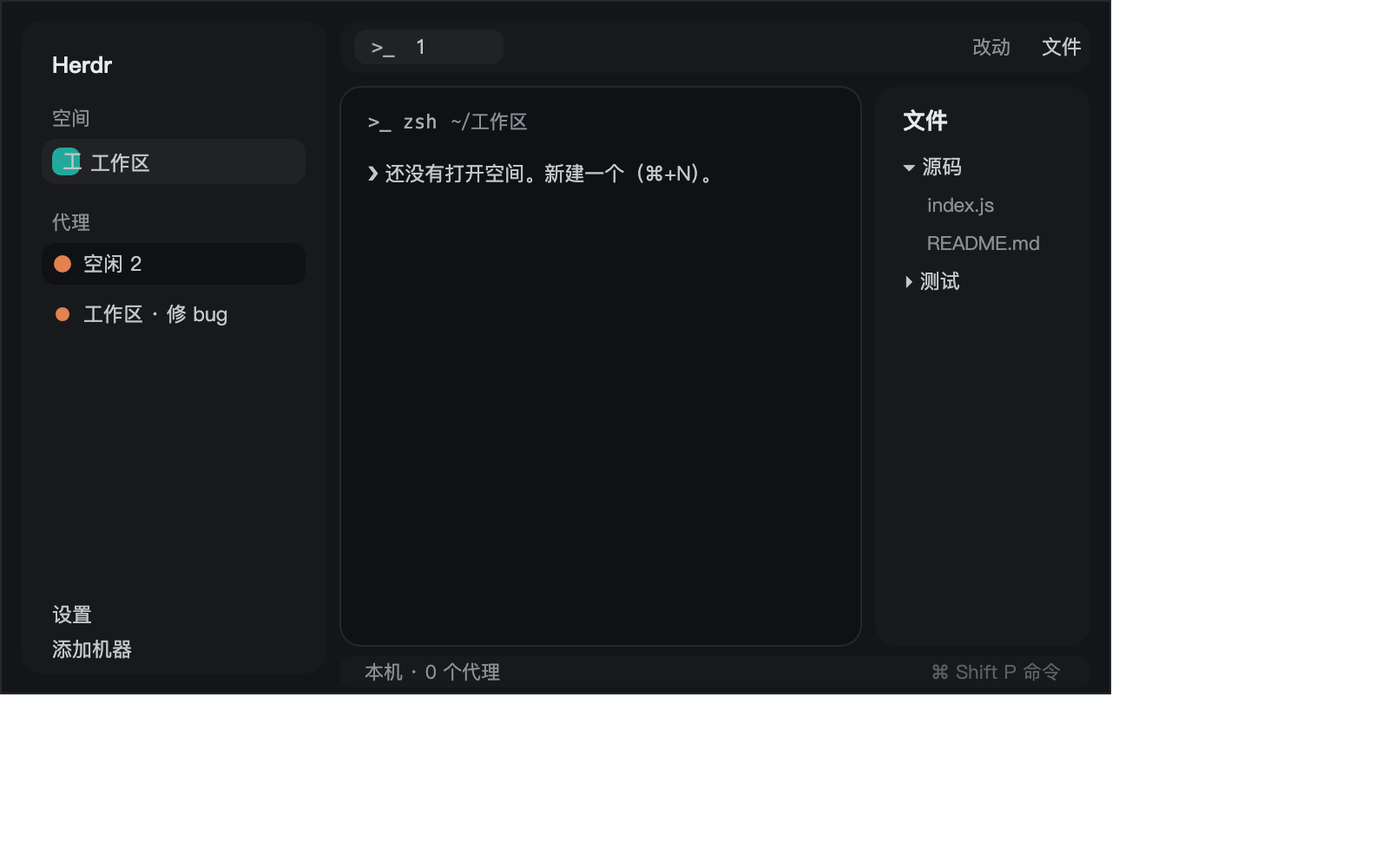
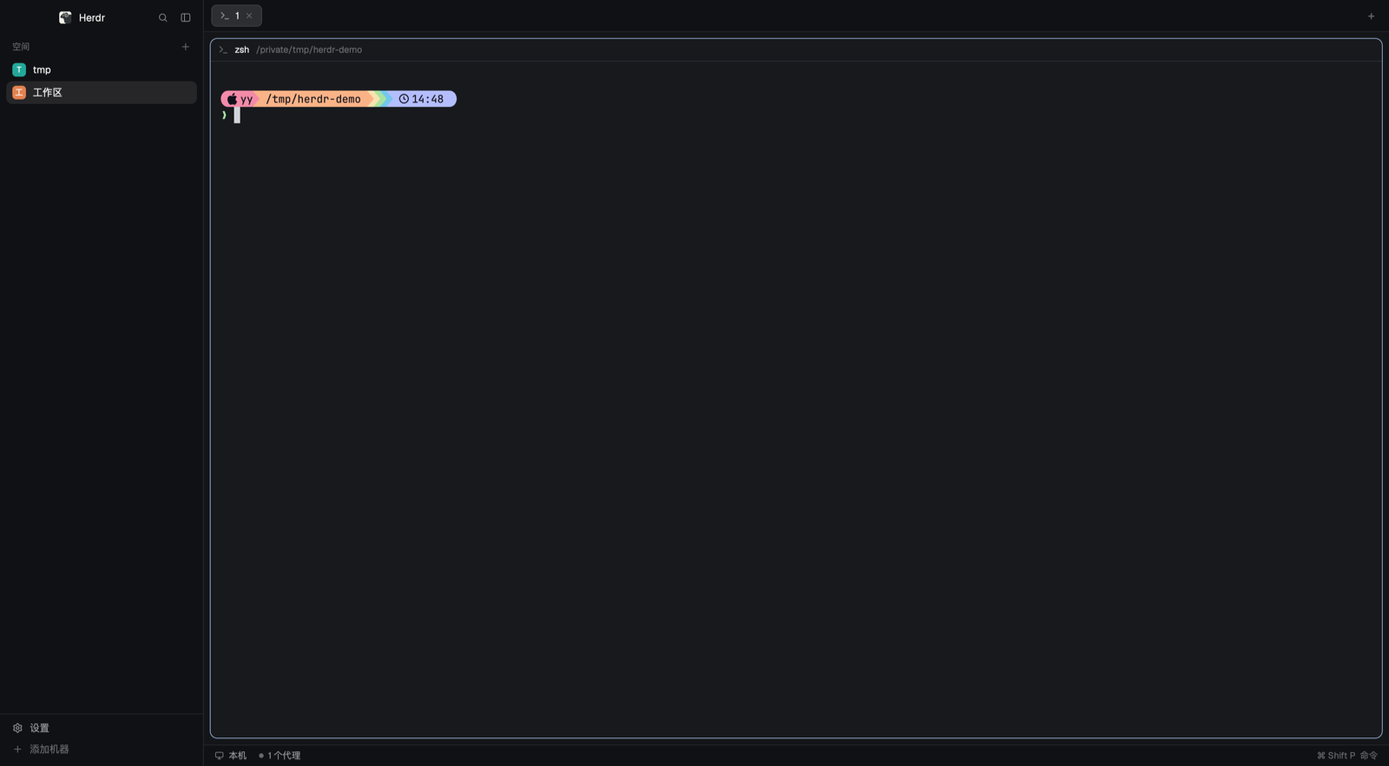
首页换成真机截图；修掉中文段落里被当成空格的问题
图片：
- preview.png 换成 herdr-app shot 抓的真机截图（0.1.10，1600×882）
- 删掉自绘的 preview-terminals-zh.png 与 assets/（那两张示意图会让人以为是界面）
- main-zh.json 补上 preview 字段，指向 layouts/main-zh.svg，
  这样「设置 › 外观」里的布局卡片有示意图（纯图形，同 Herdr 自带 win98.svg 的惯例）

文档：
- GitHub 把段落里的硬换行渲染成空格，中文就多出「界面模块里。 这套东西」这类空格；
  把三个 md 的纯文本段落接回一行（表格/列表/代码块未动）
- 安装步骤补上第 0 步「git clone」，之前直接讲 cp，读者不知道文件从哪来
- 脚注的 `\*` 换成「注：」

diff --git a/RECIPE.md b/RECIPE.md
@@ -1,9 +1,6 @@
 # Herdr 中文版
 
-把 Herdr 的界面换成简体中文：侧边栏、代理列表、标签栏、窗格表头、文件/改动面板、
-状态栏、右键菜单、＋菜单、跳转面板、添加机器、worktree、快捷键页、设置页、
-命令面板、反馈、欢迎页、更新内容，以及「没有打开空间」时的空状态。
-另附一个中文的终端版布局。不改 `Herdr.app` 本体，不动二进制，不重签名。
+把 Herdr 的界面换成简体中文：侧边栏、代理列表、标签栏、窗格表头、文件/改动面板、状态栏、右键菜单、＋菜单、跳转面板、添加机器、worktree、快捷键页、设置页、命令面板、反馈、欢迎页、更新内容，以及「没有打开空间」时的空状态。另附一个中文的终端版布局。不改 `Herdr.app` 本体，不动二进制，不重签名。
 
 ![Herdr 中文版](preview.png)
 
@@ -14,8 +11,7 @@
 **`layouts/main-zh.json`（Herdr 中文版）**，从左到右、从上到下：
 
 - 根节点 `root`：`row`，`titlebar: none`（不画系统标题栏），`traffic_lights: [12, 16]`，
-  `background: canvas`，`terminal_padding: [14, 12]`，`divider: {width:1, color:border}`，
-  `terminal_menu: menu-zh`。**不设 `theme`/`font`**，所以配色与字体来自用户的 `settings.json`。
+  `background: canvas`，`terminal_padding: [14, 12]`，`divider: {width:1, color:border}`，`terminal_menu: menu-zh`。**不设 `theme`/`font`**，所以配色与字体来自用户的 `settings.json`。
 - `sidebar`（`column`，268px，min 44，max 480，`background: chrome`，`resizable: false`）：
   - `brand`（46px 高，`window_drag: true`）→ `workspace-chrome-zh`：羊头图标 + `Herdr`、
     放大镜、侧边栏开关。
@@ -37,38 +33,19 @@
       `changes` → `changes-zh`。由标签栏的两个按钮开关。
   - `status`（28px 高）→ `workspace-status-zh`。
 
-**`layouts/terminals-zh.json`（终端版 中文）**：根节点自带调色板
-（`#131619` 背景、`#3b82f6` 强调色、`graphite` 主题、`font_size: 15`、`padding: [6,6]`、`gap: 8`），
-`traffic_lights: [16, 18]`。顶部 `tabs`（38px，`window_drag: true`）→ `terminals-bar-zh`
-（空间胶囊 + 标签 + 窗口按钮 + 命令/新建按钮）；`main` → `{tab:"active"}`，
-`pane.header` → `terminals-pane-zh`（深色系硬编码的窗格表头）。
+**`layouts/terminals-zh.json`（终端版 中文）**：根节点自带调色板（`#131619` 背景、`#3b82f6` 强调色、`graphite` 主题、`font_size: 15`、`padding: [6,6]`、`gap: 8`），`traffic_lights: [16, 18]`。顶部 `tabs`（38px，`window_drag: true`）→ `terminals-bar-zh` （空间胶囊 + 标签 + 窗口按钮 + 命令/新建按钮）；`main` → `{tab:"active"}`，`pane.header` → `terminals-pane-zh`（深色系硬编码的窗格表头）。
 
-字号都不是新加的：中文文字用各模块原本的 `text_size`（例如状态栏 11.8、菜单 12.8、
-代理行 13、文件行 13），CJK 字形由系统字体（macOS 上是苹方）补上。
+字号都不是新加的：中文文字用各模块原本的 `text_size`（例如状态栏 11.8、菜单 12.8、代理行 13、文件行 13），CJK 字形由系统字体（macOS 上是苹方）补上。
 
-**中文化到什么程度**：所有 Herdr 自带的用户可见英文都译了，包括命令名在快捷键页里
-也译成中文（`space.new` → 新建空间）。保留英文的只有专有名词：`Herdr`、`Herdr 98`、
-`herdr-core`、`hc`、字体名（`JetBrains Mono`、`Geist`）、主题名
-（`graphite` `ink` `moss` `atom one dark` `paper`）、以及快捷键名 `Esc`。
+**中文化到什么程度**：所有 Herdr 自带的用户可见英文都译了，包括命令名在快捷键页里也译成中文（`space.new` → 新建空间）。保留英文的只有专有名词：`Herdr`、`Herdr 98`、`herdr-core`、`hc`、字体名（`JetBrains Mono`、`Geist`）、主题名（`graphite` `ink` `moss` `atom one dark` `paper`）、以及快捷键名 `Esc`。
 
 ---
 
 ## 它怎么表现
 
-**空间列表（`spaces-zh`）**：标题行 31px 高，左内边距 16px、右 10px，写「空间」，
-右侧一个 ＋ 打开新建空间。每个空间一行 30px 高（worktree 子行 28px）、圆角 8、
-左右内边距 8；行首是 18px 的圆角色块（5px 圆角、按下标取的调色板色 `ansi6/ansi3/ansi4/ansi5/ansi2/ansi1`），
-里面是空间名首字。名后只在"不寻常"时才跟 `仓库 · 分支 ↑2 ↓1`（主分支、与空间同名的分支不显示）。
-单击选择（`space.select`），按下再拖到别的行则排序（`space.move`），右键在指针处弹 `menu-zh`
-（200×260，`props: {tab:"space", target:{id}}`）。侧边栏宽度小于 **160px** 时自动变窄栏：
-只显示序号 + 一个状态点（`●` 需要你 / `·` 其他）。已知机器不止一台时，列表按机器分组，
-每组 26px 高的标题（小显示器/服务器图标 + 机器名 + ＋ + 折叠箭头「载入中…」）。
+**空间列表（`spaces-zh`）**：标题行 31px 高，左内边距 16px、右 10px，写「空间」，右侧一个 ＋ 打开新建空间。每个空间一行 30px 高（worktree 子行 28px）、圆角 8、左右内边距 8；行首是 18px 的圆角色块（5px 圆角、按下标取的调色板色 `ansi6/ansi3/ansi4/ansi5/ansi2/ansi1`），里面是空间名首字。名后只在"不寻常"时才跟 `仓库 · 分支 ↑2 ↓1`（主分支、与空间同名的分支不显示）。单击选择（`space.select`），按下再拖到别的行则排序（`space.move`），右键在指针处弹 `menu-zh` （200×260，`props: {tab:"space", target:{id}}`）。侧边栏宽度小于 **160px** 时自动变窄栏：只显示序号 + 一个状态点（`●` 需要你 / `·` 其他）。已知机器不止一台时，列表按机器分组，每组 26px 高的标题（小显示器/服务器图标 + 机器名 + ＋ + 折叠箭头「载入中…」）。
 
-**代理列表（`agents-zh`）**：标题「代理」41px 高，右上角一个排序按钮，点开 `agents-zh`
-自身的弹出菜单（200×140，`props: {sortMenu:true}`），两种排法：**按优先级** 或 **按空间分组**。
-按优先级时分组标题是「需要你 / 已完成 / 进行中 / 空闲」，按空间时用空间名，标题 30px 高、
-11px 灰字、可点击折叠（折叠后显示数量与最紧急状态）。每个代理一行 30px 高、圆角 8、
-圆点距 9；聚焦的那行用 `selected` 底色。四种状态：
+**代理列表（`agents-zh`）**：标题「代理」41px 高，右上角一个排序按钮，点开 `agents-zh` 自身的弹出菜单（200×140，`props: {sortMenu:true}`），两种排法：**按优先级** 或 **按空间分组**。按优先级时分组标题是「需要你 / 已完成 / 进行中 / 空闲」，按空间时用空间名，标题 30px 高、11px 灰字、可点击折叠（折叠后显示数量与最紧急状态）。每个代理一行 30px 高、圆角 8、圆点距 9；聚焦的那行用 `selected` 底色。四种状态：
 
 | 状态 | 行尾/标题里的样子 |
 |---|---|
@@ -77,46 +54,19 @@
 | `done` 已完成 | 7px 实心圆点，`done` 色 |
 | `idle` 空闲 | 7px 空心圆环，1.5px 边框，`idle` 色（缺省 `dim`） |
 
-悬停在行上，右侧出现图钉按钮（`tooltip` 是「置顶」/「取消置顶」），置顶的代理排到最前并
-在优先级视图里额外用 `· 细节` 标出空间名。子代理以树形缩进（`└`/`├` 用 1.5px 边框画），
-点一下预览（`terminal.peek`）。点击代理行聚焦它的窗格（`pane.focus`）。空闲时间显示
-`<1m` / `3m` / `2h` / `5d`。列表为空时显示「还没有代理状态。代理上报状态后才会出现在这里。
-旧版本和在 tmux 里运行的代理可能不会显示。」
+悬停在行上，右侧出现图钉按钮（`tooltip` 是「置顶」/「取消置顶」），置顶的代理排到最前并在优先级视图里额外用 `· 细节` 标出空间名。子代理以树形缩进（`└`/`├` 用 1.5px 边框画），点一下预览（`terminal.peek`）。点击代理行聚焦它的窗格（`pane.focus`）。空闲时间显示`<1m` / `3m` / `2h` / `5d`。列表为空时显示「还没有代理状态。代理上报状态后才会出现在这里。旧版本和在 tmux 里运行的代理可能不会显示。」
 
-**标签栏（`tabs-zh`）**：每个标签 29px 高、圆角 7、内边距左右 10，激活的用 `raised` 底 +
-`border` 边，其余透明。标签名最长 170px 后省略；程序图标 14px（单色字形或图片）。
-双击改名 → 打开中文重命名框；拖动排序（`tab.move`）；右键弹 `menu-zh`（`props: {tab:"tab"}`）；
-激活标签右端有 ✕（`tab.close`）。＋按钮打开 `new-menu-zh`（250×512）。右侧
-「文件」「改动」两个按钮开关 `panel` 列，并记住每个空间各自的选择。
+**标签栏（`tabs-zh`）**：每个标签 29px 高、圆角 7、内边距左右 10，激活的用 `raised` 底 + `border` 边，其余透明。标签名最长 170px 后省略；程序图标 14px（单色字形或图片）。双击改名 → 打开中文重命名框；拖动排序（`tab.move`）；右键弹 `menu-zh`（`props: {tab:"tab"}`）；激活标签右端有 ✕（`tab.close`）。＋按钮打开 `new-menu-zh`（250×512）。右侧「文件」「改动」两个按钮开关 `panel` 列，并记住每个空间各自的选择。
 
-**窗格表头（`pane-zh`）**：30px 高，左右内边距 10、圆点距 8。程序图标 14px、名称最多 260px、
-然后是 `~` 缩写后的目录；行尾按状态显示转圈 / 「需要你」胶囊 / 完成圆点。
-鼠标悬停在表头上时浮现四个 14px 图标按钮：向右分屏、向下分屏、放大/还原、关闭。
+**窗格表头（`pane-zh`）**：30px 高，左右内边距 10、圆点距 8。程序图标 14px、名称最多 260px、然后是 `~` 缩写后的目录；行尾按状态显示转圈 / 「需要你」胶囊 / 完成圆点。鼠标悬停在表头上时浮现四个 14px 图标按钮：向右分屏、向下分屏、放大/还原、关闭。
 
-**状态栏（`workspace-status-zh`）**：28px 高、左右内边距 14、圆点距 16、11.8px 灰字。
-从左到右：`本机`（或远端机器名，带服务器图标）· 当前分支 · `● N 个代理`
-（有阻塞时追加 `· N 个需要你`，用 `blocked` 色）· 空白 · 右侧 `⌘ Shift P  命令`，
-点击打开 `palette-zh`。
+**状态栏（`workspace-status-zh`）**：28px 高、左右内边距 14、圆点距 16、11.8px 灰字。从左到右：`本机`（或远端机器名，带服务器图标）· 当前分支 · `● N 个代理` （有阻塞时追加 `· N 个需要你`，用 `blocked` 色）· 空白 · 右侧 `⌘ Shift P  命令`，点击打开 `palette-zh`。
 
-**文件面板（`files-zh`）**：标题栏 42px 高，「文件」标题 + 右侧当前目录名；打开文件后
-标题变成文件名 + 一个 ← 返回。目录树每行 28px、每层缩进 18px、圆角 7，文件夹可展开
-（懒加载），git 状态在行尾标 `A`/`M`/`D`/`U`（绿/红/橙）。预览用只读编辑器，
-语法高亮取主题色（`ansi5` 关键字、`ansi2` 字符串、`ansi4` 函数、`ansi3` 类型、`ansi1` 数字、`ansi6` 常量）。
-上限：每层 500 条、总计 5000 条（超出时提示「文件列表上限：每个文件夹 500 项，共 5,000 项」）；
-文件超过 400000 字截断并注明「（文件已截断）」；目录变动 10 秒轮询 + 文件夹监视。
+**文件面板（`files-zh`）**：标题栏 42px 高，「文件」标题 + 右侧当前目录名；打开文件后标题变成文件名 + 一个 ← 返回。目录树每行 28px、每层缩进 18px、圆角 7，文件夹可展开（懒加载），git 状态在行尾标 `A`/`M`/`D`/`U`（绿/红/橙）。预览用只读编辑器，语法高亮取主题色（`ansi5` 关键字、`ansi2` 字符串、`ansi4` 函数、`ansi3` 类型、`ansi1` 数字、`ansi6` 常量）。上限：每层 500 条、总计 5000 条（超出时提示「文件列表上限：每个文件夹 500 项，共 5,000 项」）；文件超过 400000 字截断并注明「（文件已截断）」；目录变动 10 秒轮询 + 文件夹监视。
 
-**改动面板（`changes-zh`）**：标题栏 42px，「改动」+ `N 个文件` + `+N −N`。文件列表最多 200px 高、
-每行 28px（状态字母 + 路径 + 增删数），点开后下方是统一 diff：虚拟列表、每行 20px，
-新增行用 `ansi2` 18% 底、删除行用 `ansi1` 18% 底，行号 30px 宽右对齐。底部是提交框
-（32px，输入 12px）+「提交」按钮（有内容时才点亮）。上限 1000 个文件、每文件 1500 行、
-每行 4000 字符。
+**改动面板（`changes-zh`）**：标题栏 42px，「改动」+ `N 个文件` + `+N −N`。文件列表最多 200px 高、每行 28px（状态字母 + 路径 + 增删数），点开后下方是统一 diff：虚拟列表、每行 20px，新增行用 `ansi2` 18% 底、删除行用 `ansi1` 18% 底，行号 30px 宽右对齐。底部是提交框（32px，输入 12px）+「提交」按钮（有内容时才点亮）。上限 1000 个文件、每文件 1500 行、每行 4000 字符。
 
-**空状态（`empty-zh`）**：Herdr 内建的那句 `No space open. Make one (cmd-n).` 是硬编码英文，
-换不掉，所以用一个**整块的 stack 子节点盖住它**：`main-stack` 的 `empty` 子节点渲染一个
-圆角 12、`chrome` 底的卡片，写「还没有打开空间。新建一个（⌘+N）。」，下面一个
-「新建空间」按钮（`space.new`）。`empty-zh` 每 700ms 检查一次：有空间就把 stack 切回
-`terminals`，没有就切到 `empty`（`layout.select`）。所以运行中打开/关闭最后一个空间，
-画面会自动切换，不需要手动切布局。
+**空状态（`empty-zh`）**：Herdr 内建的那句 `No space open. Make one (cmd-n).` 是硬编码英文，换不掉，所以用一个**整块的 stack 子节点盖住它**：`main-stack` 的 `empty` 子节点渲染一个圆角 12、`chrome` 底的卡片，写「还没有打开空间。新建一个（⌘+N）。」，下面一个「新建空间」按钮（`space.new`）。`empty-zh` 每 700ms 检查一次：有空间就把 stack 切回`terminals`，没有就切到 `empty`（`layout.select`）。所以运行中打开/关闭最后一个空间，画面会自动切换，不需要手动切布局。
 
 **浮层（都开在指针处或顶部）**：
 
@@ -136,16 +86,13 @@
 | `welcome-zh` | 760×640 | 「欢迎使用 Herdr」四页引导，中文 |
 | `whatsnew-zh` | 640×620 | 「Herdr 更新内容」 |
 
-**键位入口**（`keys.json`）：`⌘,` 中文设置 · `⌘⇧P` 中文命令面板 · `⌘/` 与 `⌘⇧/` 中文快捷键 ·
-`⌘P` 中文跳转 · `F2` 重命名标签页 · `⇧F2` 重命名空间。
+**键位入口**（`keys.json`）：`⌘,` 中文设置 · `⌘⇧P` 中文命令面板 · `⌘/` 与 `⌘⇧/` 中文快捷键 · `⌘P` 中文跳转 · `F2` 重命名标签页 · `⇧F2` 重命名空间。
 
 ---
 
 ## 由什么搭成
 
-**布局**：`layouts/main-zh.json`（克隆自 Herdr 自带 `layouts/main.json`，根节点
-`cloned_from: {name:"main"}`）与 `layouts/terminals-zh.json`（克隆自 `terminals.json`）。
-节点树与尺寸见上一节；两个布局都只是**换掉 `content.mod` 指向的模块名**，结构与自带版一致。
+**布局**：`layouts/main-zh.json`（克隆自 Herdr 自带 `layouts/main.json`，根节点`cloned_from: {name:"main"}`）与 `layouts/terminals-zh.json`（克隆自 `terminals.json`）。节点树与尺寸见上一节；两个布局都只是**换掉 `content.mod` 指向的模块名**，结构与自带版一致。
 
 **每个模块用什么搭的**：
 
@@ -175,54 +122,36 @@
 | `whatsnew-zh` | `{notes, overlay}` | `updates, presentUpdateNotes, theme, props, closeOverlay` | — |
 | `terminals-bar-zh` / `terminals-pane-zh` | 后者用 `{pane}` | `spaces, panes, home, openOverlay, run, window, theme` | `tab.select/new`、`pane.focus/split/zoom/close`、`mod.open` |
 
-**美术**：`mods/workspace-chrome-zh/` 里有 33 个 SVG（`spinner.svg`、`monitor.svg`、
-`server.svg`、`branch.svg`、`plus.svg`、`search.svg`、`sidebar.svg`、`settings.svg`、
-`chevron-*.svg`、`x.svg` 等），`files-zh/` 4 个，`pane-zh/` 5 个，`tabs-zh/` 4 个
-（Windows 窗口按钮），`palette-zh/command.svg`，`settings-zh/` 6 个，`welcome-zh/` 7 个。
-都是 Herdr 自带图标（Lucide / Feather 衍生，见 NOTICE），原样复制过来。
+**美术**：`mods/workspace-chrome-zh/` 里有 33 个 SVG（`spinner.svg`、`monitor.svg`、`server.svg`、`branch.svg`、`plus.svg`、`search.svg`、`sidebar.svg`、`settings.svg`、`chevron-*.svg`、`x.svg` 等），`files-zh/` 4 个，`pane-zh/` 5 个，`tabs-zh/` 4 个（Windows 窗口按钮），`palette-zh/command.svg`，`settings-zh/` 6 个，`welcome-zh/` 7 个。都是 Herdr 自带图标（Lucide / Feather 衍生，见 NOTICE），原样复制过来。
 
-**`tools/`（可选）**：`apply.sh` 把 `frame/settings/main.js`、`mods/confirm/main.js`、
-`mods/prompt/main.js` 换成中文并锁定；`verify.sh` 体检；`refresh.sh` + `zhmerge.py`
-在 Herdr 升级后把中文搬到新版上游；`leftover.py` 扫残留英文；
-`frame-settings-en.js` / `mods-confirm-en.js` / `mods-prompt-en.js` 是 Herdr 原文件的副本。
+**`tools/`（可选）**：`apply.sh` 把 `frame/settings/main.js`、`mods/confirm/main.js`、`mods/prompt/main.js` 换成中文并锁定；`verify.sh` 体检；`refresh.sh` + `zhmerge.py` 在 Herdr 升级后把中文搬到新版上游；`leftover.py` 扫残留英文；`frame-settings-en.js` / `mods-confirm-en.js` / `mods-prompt-en.js` 是 Herdr 原文件的副本。
 
 ---
 
 ## 当心
 
 - **Herdr 每次启动会重写它自己的文件。** `frame/`、`mods/spaces`、`mods/agents`、`mods/tabs`、
-  `mods/menu`、`mods/prompt` … 全都会被二进制内嵌的源码覆盖，编辑它们会留下 `*-edited` 副本
-  然后被还原。所以中文**必须**放在自建副本（`*-zh`）里。唯一的例外是设置窗口、确认框、
-  重命名框：那三个只能"锁定替换"（写入中文后 `chmod 444` + `chflags uchg`）。
-  只加 `chflags uchg` 不够，**两个都要**。
+  `mods/menu`、`mods/prompt` … 全都会被二进制内嵌的源码覆盖，编辑它们会留下 `*-edited` 副本然后被还原。所以中文**必须**放在自建副本（`*-zh`）里。唯一的例外是设置窗口、确认框、重命名框：那三个只能"锁定替换"（写入中文后 `chmod 444` + `chflags uchg`）。只加 `chflags uchg` 不够，**两个都要**。
 - **别整份覆盖 `keys.json`。** 用户自己的键位在里面，只合并那六项。
 - **`mod.clone` 只处理"自己的"引用。** 它会改写本模块的资源路径（`mods/pane/` →
-  `mods/pane-zh/`）和"自开浮层"的名字，但**跨模块引用要手工改**：例如 `spaces-zh` 里
-  `openOverlay({mod:"menu"})` 要改成 `menu-zh`，`tabs-zh` 要指向 `menu-zh`/`new-menu-zh`。
-  漏改的结果是弹出一个英文菜单，而不是报错 —— 很容易漏。
+  `mods/pane-zh/`）和"自开浮层"的名字，但**跨模块引用要手工改**：例如 `spaces-zh` 里`openOverlay({mod:"menu"})` 要改成 `menu-zh`，`tabs-zh` 要指向 `menu-zh`/`new-menu-zh`。漏改的结果是弹出一个英文菜单，而不是报错 —— 很容易漏。
 - **`peek` 和 `toast` 换不了。** Herdr 按固定名字 `peek` / `toast` 打开这两个，
   用户侧没有配置项（`terminal_menu` 只影响终端右键菜单）。这两处仍是英文。
 - **空状态靠"盖"不靠"删"。** Herdr 内建的空状态文案在二进制里，只能用一个覆盖整块的
-  stack 子节点盖住；这也是为什么 `main-zh` 的 `main` 位置是个 `stack` 而不是直接
-  `{tab:"active"}` 的 block。若把 `main-stack` 改名或改成别的结构，`empty-zh` 就找不到它、
-  什么也不做（不报错），此时会露出内建的英文。
+  stack 子节点盖住；这也是为什么 `main-zh` 的 `main` 位置是个 `stack` 而不是直接`{tab:"active"}` 的 block。若把 `main-stack` 改名或改成别的结构，`empty-zh` 就找不到它、什么也不做（不报错），此时会露出内建的英文。
 - **`empty-zh` 用 700ms 定时器切换 stack 子节点。** 这是本套里唯一"轮询"的地方
   （判断 `spaces().length`）。改慢一点（如 2000ms）画面切换会有延迟，改快没必要。
 - **侧边栏窄于 160px 会变成窄栏**（`spaces-zh`/`agents-zh` 按宽度判断，不是标志位），
-  这是 Herdr 自带行为，中文版保留了：窄栏下 `agents-zh` 只显示序号 + 一个状态符号，
-  文案基本看不见。
+  这是 Herdr 自带行为，中文版保留了：窄栏下 `agents-zh` 只显示序号 + 一个状态符号，文案基本看不见。
 - **状态值大小写**：`agents()`/`machines()` 给的状态词可能是 `connected` 也可能是
   `Connected`，做词表时要大小写不敏感（`settings-zh` 里就是这么做的）。
 - **`settings-zh` 是"独立副本"**，它跟 `frame/settings` 是两份代码。想改设置页文案时
   两处都要改（`mods/settings-zh/main.js` 和 `tools/frame-settings-zh.js`）。
 - **字体**：中文靠系统的 CJK 字体补字形（macOS 是苹方）。如果用户把 `ui_font`
   设成一个没有 CJK 的字体，Herdr 仍会回退到系统字体，一般不会出方块。
-- **预览 SVG 是纯图形**（`layouts/*.svg`），因为 Herdr 自带的 `win98.svg` 也是纯图形、
-  渲染器不保证支持 `<text>`。要看带中文标签的图，看 `preview.png`（由
-  `assets/*.svg` 经 Chrome 无头渲染生成）。
+- **两套图别混**：`preview.png`（仓库首页那张）是 `herdr-app shot` 抓的**真机截图**；`layouts/*.svg` 是给「设置 › 外观」用的**布局示意图**，刻意只画图形不写字 —— 因为 Herdr 自带的 `win98.svg` 也是纯图形，它的 SVG 渲染器不保证支持 `<text>`。
 - **还没生效的控件**：`welcome-zh` 的「外观」分段控件会写 `settings.json`；
-  非 macOS 上 `settings-zh` 的「完全磁盘访问权限」按钮无意义（那是 macOS 特有）。
-  `palette-zh` 表里个别命令在旧版本上不存在，会自动被 `commands()` 过滤掉，不会报错。
+  非 macOS 上 `settings-zh` 的「完全磁盘访问权限」按钮无意义（那是 macOS 特有）。`palette-zh` 表里个别命令在旧版本上不存在，会自动被 `commands()` 过滤掉，不会报错。
 
 ---
 
@@ -266,7 +195,6 @@ herdr-app do mod.open '{"name":"machine-add-zh"}'    # 添加机器
 cd "$H" && ./zh-patch/verify.sh
 ```
 
-界面本身也要看到：侧边栏四个中文标题、标签栏「文件」「改动」、
-右键菜单全中文、`F2` 弹中文重命名框、`⌘,` 弹中文设置页并五个分节都是中文。
+界面本身也要看到：侧边栏四个中文标题、标签栏「文件」「改动」、右键菜单全中文、`F2` 弹中文重命名框、`⌘,` 弹中文设置页并五个分节都是中文。
 </DOC
 wc -l RECIPE.md; head -12 RECIPE.md

diff --git a/UPGRADE.md b/UPGRADE.md
@@ -1,7 +1,6 @@
 # Herdr 中文化：升级流程说明
 
-Herdr 升级后中文可能局部回退。这份文档说明**为什么会回退**、**按什么顺序修**，
-以及每一步用什么工具、怎么验证。
+Herdr 升级后中文可能局部回退。这份文档说明**为什么会回退**、**按什么顺序修**，以及每一步用什么工具、怎么验证。
 
 ---
 
@@ -31,8 +30,7 @@ Herdr 没有语言设置，中文是三层东西拼出来的：
 - **A 类：锁定文件停留在旧版** —— 设置窗口少了新版新增的选项。
 - **B 类：中文副本停留在旧版** —— 侧边栏/标签栏/面板少了新版功能，或上游改了文案而副本还是旧的。
 
-判断方法：副本的 `mod.json` 里记着克隆时的版本（`cloned_from.version`），
-和 `herdr-app --version` 一比就知道落了多少。
+判断方法：副本的 `mod.json` 里记着克隆时的版本（`cloned_from.version`），和 `herdr-app --version` 一比就知道落了多少。
 
 ---
 
@@ -93,9 +91,7 @@ git add -A && git commit -m "跟到 Herdr <版本>"
 
 `zhmerge.py` 的设计原则，值得记住：
 
-**已知局限**：`zhstrings.py` / `zhmerge.py` 用正则找字符串字面量，**嵌套模板串**
-（例如 `` `打开 worktree${r ? ` · ${r.name}` : ""}` ``）会被切断，于是这类文件
-可能被报成「需人工」。判断法：直接 `git diff` 看差异，若只差文案就是误报。
+**已知局限**：`zhstrings.py` / `zhmerge.py` 用正则找字符串字面量，**嵌套模板串** （例如 `` `打开 worktree${r ? ` · ${r.name}` : ""}` ``）会被切断，于是这类文件可能被报成「需人工」。判断法：直接 `git diff` 看差异，若只差文案就是误报。
 
 > **宁可留英文，也不把代码配错。**
 > 只在「对齐的代码块」里搬文案；非对齐块原样用上游，其中的英文文案列成「待翻译」交人补。
@@ -106,8 +102,7 @@ git add -A && git commit -m "跟到 Herdr <版本>"
 
 ## 四、A 类：锁定文件遇到上游改了源码
 
-`apply.sh` 只是把仓库里的中文版写回去。如果上游**改了 `frame/settings` 的源码结构**，
-中文版就是旧逻辑，新选项不会出现。这时：
+`apply.sh` 只是把仓库里的中文版写回去。如果上游**改了 `frame/settings` 的源码结构**，中文版就是旧逻辑，新选项不会出现。这时：
 
 ```sh
 cd ~/.config/herdr-app
@@ -137,8 +132,7 @@ herdr-app check frame/settings
 
 ## 五、B 类：中文副本里「我自己的代码改动」
 
-有些副本不只是换文案，还改了代码（例如把 `run("app.settings")` 换成打开中文设置页）。
-`refresh.sh` 用的是**上游代码 + 中文文案**，所以会**丢掉这些代码改动**。刷新后要手工补回：
+有些副本不只是换文案，还改了代码（例如把 `run("app.settings")` 换成打开中文设置页）。`refresh.sh` 用的是**上游代码 + 中文文案**，所以会**丢掉这些代码改动**。刷新后要手工补回：
 
 | 副本 | 代码级改动（刷新后要补回） |
 |---|---|
@@ -176,10 +170,8 @@ cp zh-patch/backup/spaces-zh-0.1.10-before.js mods/spaces-zh/main.js
 ## 七、已知边界（无法汉化）
 
 - **macOS 菜单栏** Herdr 菜单里的 `Settings…` / `Hide Herdr` / `Quit Herdr` /
-  `Services` / `Show All`：系统菜单，文案在二进制里。其中 `Settings…` 打开的
-  **已经是中文设置窗口**。
+  `Services` / `Show All`：系统菜单，文案在二进制里。其中 `Settings…` 打开的**已经是中文设置窗口**。
 - **应用自己弹的 toast 正文**（如 `herdr-core is up to date`）：在二进制里。
 - **终端里你自己程序输出的内容**：不属于 Herdr 界面。
 - 有意保留英文的专有名词：`Herdr`、`Herdr 98`、`herdr-core`、`hc`、字体名
-  （`JetBrains Mono`、`Geist`）、主题名（`graphite` `ink` `moss` `atom one dark` `paper`）、
-  快捷键名（`Esc`、`⌘`）。
+  （`JetBrains Mono`、`Geist`）、主题名（`graphite` `ink` `moss` `atom one dark` `paper`）、快捷键名（`Esc`、`⌘`）。
